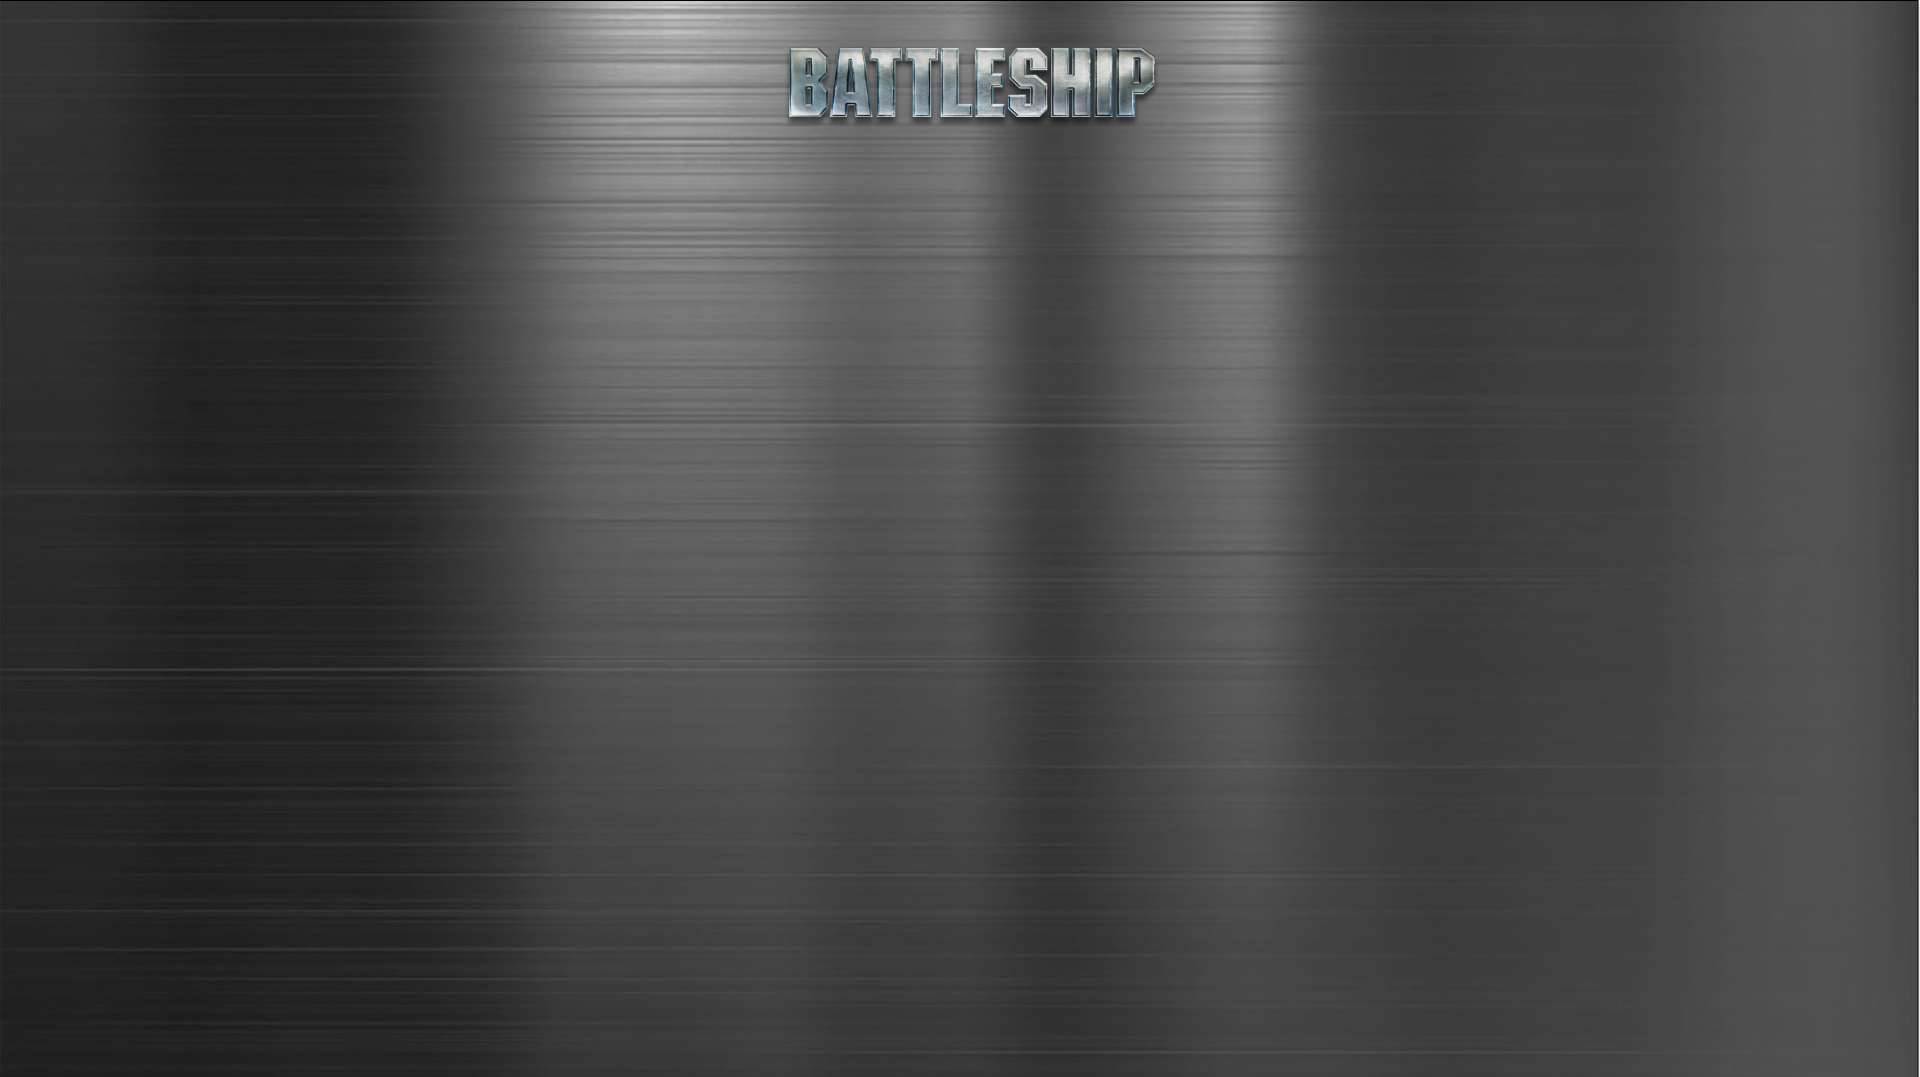
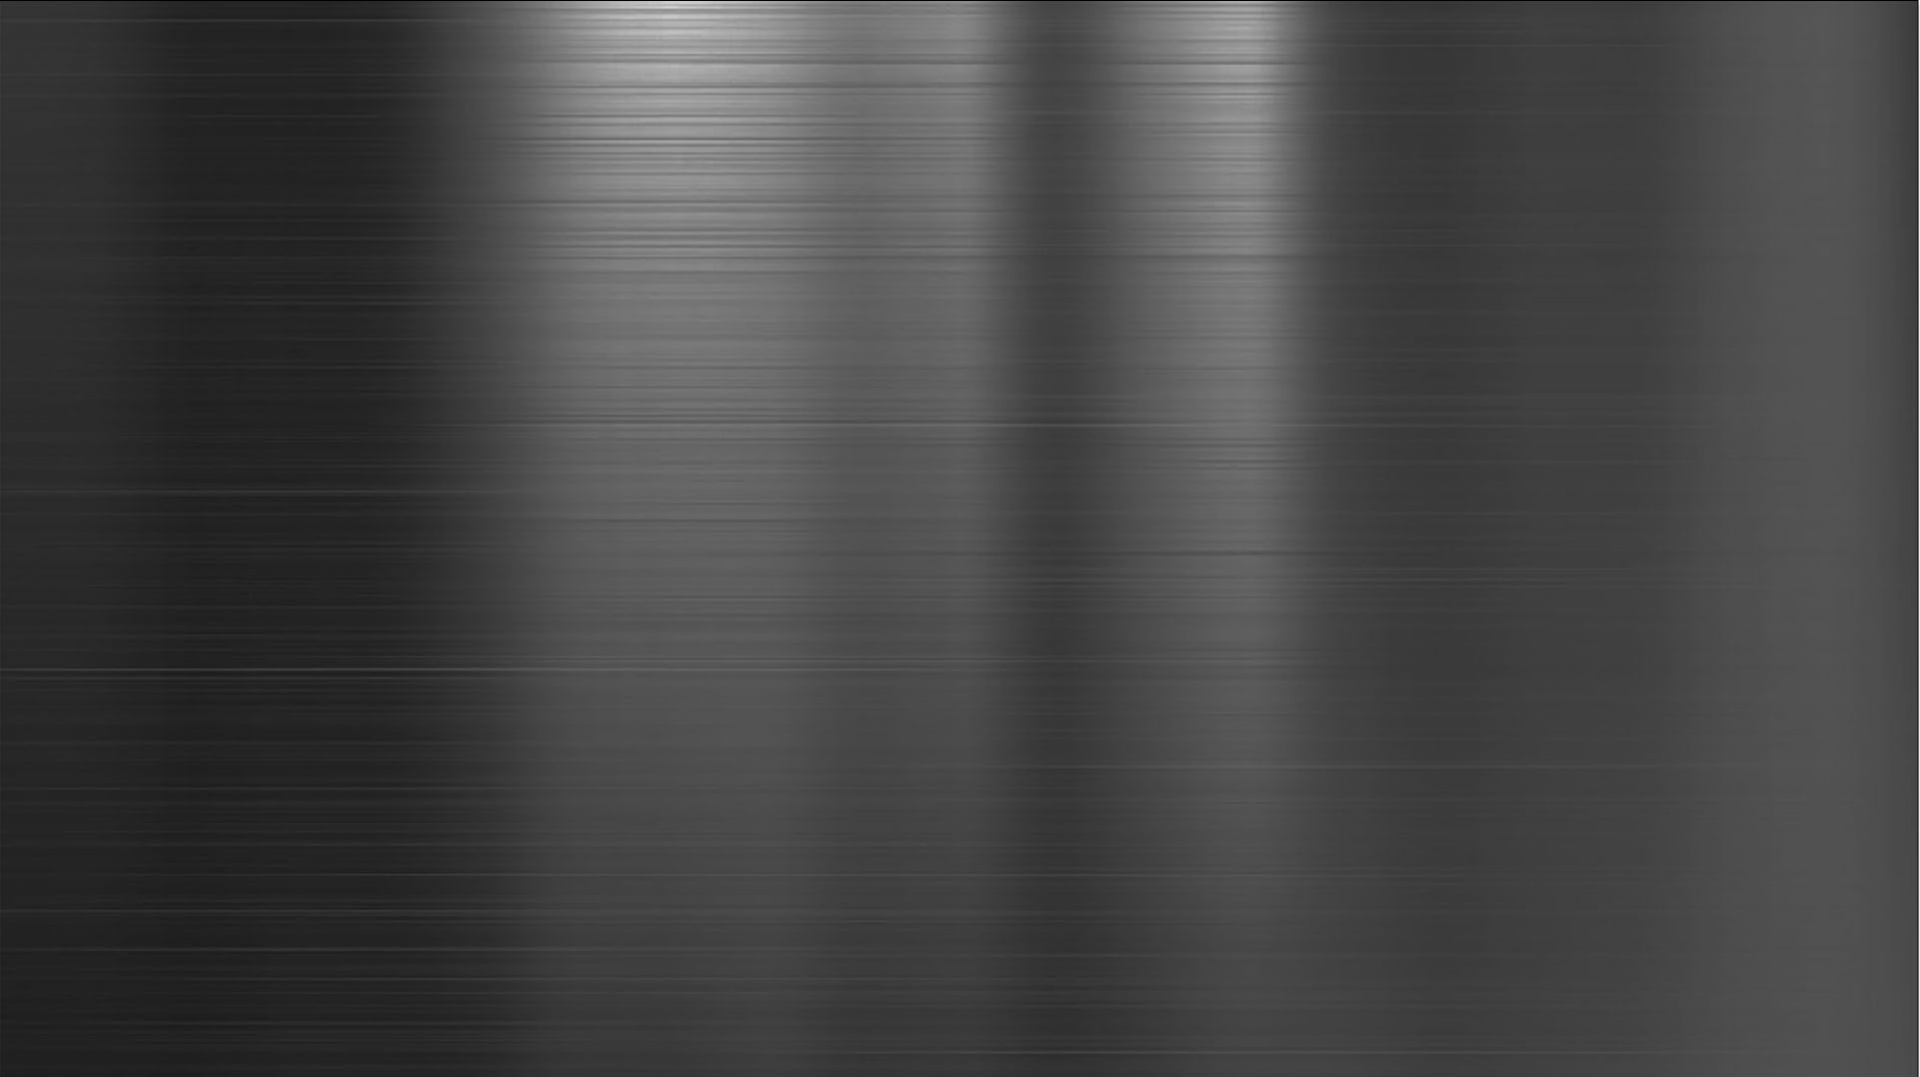
responsivo

Changed region(s): [[0.4062, 0.0306, 0.625, 0.1226]]

diff --git a/my-app/src/components/assignment/assignment.js b/my-app/src/components/assignment/assignment.js
@@ -1,13 +1,22 @@
 const React = require('react');
 const ReactDOM = require('react-dom/client');
 const { exec } = require('child_process');
-const { useState } = require('react');
+const { useState, useRef, useEffect } = require('react');
 
 const bgimage = document.getElementById('bgimage');
+const logo = document.getElementById('logo');
+const boxleft = document.getElementById('boxleft');
+const boxright = document.getElementById('boxright');
 const saveimage = document.getElementById('saveimage');
+
 const Assignment = () => {
     const [teamBlue, setTeamBlue] = useState([]);
     const [teamRed, setTeamRed] = useState([]);
+    const [sizeBtnPositions, setSizeBtnPositions] = useState(50);
+    const [paddingTopContent, setPaddingTopContent] = useState(0);
+    const refBoxLeft = useRef(null);
+    const refLogo = useRef(null);
+    const refBtn = useRef(null);
 
     const saveChoice = (team, row, column) => {
         if (team === 1) {
@@ -74,6 +83,33 @@ const Assignment = () => {
         } else alert('Selecciona posiciones de equipos');
     }
 
+    useEffect(() => {
+        const handleResize = () => {
+            const widthLeft = refBoxLeft?.current?.offsetWidth;
+            if (widthLeft) {
+                const size = (widthLeft - 140) / 7;
+                setSizeBtnPositions(size - 2);
+            }
+            const heightLogo = refLogo?.current.offsetHeight;
+            const heightBtn = refBtn?.current.offsetHeight;
+            const heightBoxes = refBoxLeft?.current.offsetHeight;
+            if (heightBoxes && heightLogo && heightBtn) {
+                const heightWindow = window?.innerHeight;
+                if (heightWindow) {
+                    const div = heightWindow - (heightBoxes + heightLogo + heightBtn);
+                    if (div > 0) {
+                        setPaddingTopContent(heightWindow < 800 ? (div / 2) - 40 : (div / 2));
+                    }
+                }
+            }
+
+        };
+
+        window.addEventListener("resize", handleResize);
+        handleResize();
+        return () => window.removeEventListener("resize", handleResize);
+    }, [])
+
     return (
         <div
             style={{
@@ -86,66 +122,121 @@ const Assignment = () => {
                 height: '100vh',
             }}
         >
-            <div className="container">
-                <div className="row">
-                    <div className="col-sm-12">
-                        <img 
-                            onClick={start} 
-                            src={saveimage?.src} 
+            <div
+                style={{
+                    //top: '50%',
+                    //transform: 'translateY(-50%)',
+                    //height: 'calc(100vh - 100px)'
+                }}
+            >
+                <div className="container"
+                    style={{
+                        paddingTop: paddingTopContent
+                    }}
+                >
+                    <div className="row">
+                        <div
+                            className="col-sm-12"
                             style={{
-                                cursor: 'pointer'
+                                textAlign: 'center',
+                                //marginTop: 30,
                             }}
-                        />
-
-                    </div>
-                    <div className="col-sm-6">
-                        <div className="row">
-                            <div className="col-sm-6">
-                                <h1 style={{color: 'blue'}}>Equipo azul</h1>
-                            </div>
-                            <div className="col-sm-6">
-
-                            </div>
+                            ref={refLogo}
+                        >
+                            <img
+                                src={logo?.src}
+                                style={{
+                                    width: '20%',
+                                }}
+                            />
                         </div>
-                        <div className="div-array">
-                            {listLetters.map((i, key) =>
-                                <div key={key}>
-                                    {listNumbers.map((j, k) =>
-                                        <button
-                                            className={`buttons-lists ${isActive(1, `${i}${j}`) ? 'button-active-b' : ''}`}
-                                            key={k}
-                                            onClick={() => saveChoice(1, i, j)}
-                                        >
-                                            {`${i}${j}`}
-                                        </button>
+                        <div className="col-sm-6" style={{ marginTop: -30 }}>
+                            <div
+                                style={{
+                                    backgroundImage: `url(${boxleft?.src})`,
+                                    backgroundPosition: '50% 50%',
+                                    backgroundSize: 'contain',
+                                    backgroundRepeat: 'no-repeat',
+                                    position: 'relative',
+                                    width: '100%',
+                                    //height: 'calc(100vh - 170px)',
+                                }}
+                            >
+
+                                <div className="div-array" ref={refBoxLeft}>
+                                    <label style={{ color: '#1975cb', fontSize: 22, marginBottom: 10 }}>Equipo azul</label>
+                                    {listLetters.map((i, key) =>
+                                        <div key={key}>
+                                            {listNumbers.map((j, k) =>
+                                                <button
+                                                    className={`buttons-lists ${isActive(1, `${i}${j}`) ? 'button-active-b' : ''}`}
+                                                    style={{
+                                                        width: sizeBtnPositions,
+                                                        height: sizeBtnPositions,
+                                                        fontSize: sizeBtnPositions / 3
+                                                    }}
+                                                    key={k}
+                                                    onClick={() => saveChoice(1, i, j)}
+                                                >
+                                                    {`${i}${j}`}
+                                                </button>
+                                            )}
+                                        </div>
                                     )}
                                 </div>
-                            )}
-                        </div>
-                    </div>
-                    <div className="col-sm-6">
-                        <div className="row">
-                            <div className="col-sm-6">
-                                <h1 style={{color: 'red'}}>Equipo rojo</h1>
-                            </div>
-                            <div className="col-sm-6">
-
                             </div>
                         </div>
-                        <div className="div-array">
-                            {listLetters.map((i, key) =>
-                                <div key={key}>
-                                    {listNumbers.map((j, k) =>
-                                        <button
-                                            className={`buttons-lists ${isActive(2, `${i}${j}`) ? 'button-active-r' : ''}`}
-                                            key={k}
-                                            onClick={() => saveChoice(2, i, j)}
-                                        >
-                                            {`${i}${j}`}
-                                        </button>
+                        <div className="col-sm-6" style={{ marginTop: -30 }}>
+                            <div
+                                style={{
+                                    backgroundImage: `url(${boxright?.src})`,
+                                    backgroundPosition: '50% 50%',
+                                    backgroundSize: 'contain',
+                                    backgroundRepeat: 'no-repeat',
+                                    position: 'relative',
+                                    width: '100%',
+                                    //height: 'calc(100vh - 170px)',
+                                }}
+                            >
+                                <div className="div-array">
+                                    <label style={{ color: '#ff0000', fontSize: 22, marginBottom: 10 }}>Equipo rojo</label>
+                                    {listLetters.map((i, key) =>
+                                        <div key={key}>
+                                            {listNumbers.map((j, k) =>
+                                                <button
+                                                    className={`buttons-lists ${isActive(2, `${i}${j}`) ? 'button-active-r' : ''}`}
+                                                    style={{
+                                                        width: sizeBtnPositions,
+                                                        height: sizeBtnPositions,
+                                                        fontSize: sizeBtnPositions / 3
+                                                    }}
+                                                    key={k}
+                                                    onClick={() => saveChoice(2, i, j)}
+                                                >
+                                                    {`${i}${j}`}
+                                                </button>
+                                            )}
+                                        </div>
                                     )}
                                 </div>
-                            )}
+                            </div>
+                        </div>
+                        <div
+                            className="col-sm-12"
+                            style={{
+                                textAlign: 'center',
+                                marginTop: 20
+                            }}
+                            ref={refBtn}
+                        >
+                            <img
+                                onClick={start}
+                                src={saveimage?.src}
+                                style={{
+                                    cursor: 'pointer'
+                                }}
+                            />
+
                         </div>
                     </div>
                 </div>

diff --git a/my-app/src/components/home/home.js b/my-app/src/components/home/home.js
@@ -28,17 +28,21 @@ const Home = () => {
                     position: 'relative',
                     width: '50%',
                     margin: '0 auto',
-                    height: 'calc(100vh - 100px)',
-                    paddingTop: 100
+                    height: '50%',
+                    top: '50%',
+                    transform: 'translateY(-50%)'
+                    //
+                    //height: 'calc(100vh - 100px)',
+                    //paddingTop: 100
                 }}
             >
                 <div
                     style={{
                         position: 'absolute',
-                        width: '20%',
-                        left: '40%',
+                        width: '25%',
+                        left: '37.5%',
                         //margin: '0 auto',
-                        bottom: '0px'
+                        bottom: '-20%'
                     }}
                 >
                     <a href="assignment.html">
@@ -50,7 +54,6 @@ const Home = () => {
                     </a>
                 </div>
             </div>
-
         </div>
     )
 };

diff --git a/my-app/src/pages/assignment.html b/my-app/src/pages/assignment.html
@@ -11,6 +11,9 @@
 <body>
     <div id="assignment"></div>
     <img src="../../public/images/assignment/bg.png" id="bgimage" style="display: none;" />
+    <img src="../../public/images/assignment/logo.png" id="logo" style="display: none;" />
+    <img src="../../public/images/assignment/box_left.png" id="boxleft" style="display: none;" />
+    <img src="../../public/images/assignment/box_right.png" id="boxright" style="display: none;" />
     <img src="../../public/images/assignment/save.png" id="saveimage" style="display: none;" />
     <script src="https://unpkg.com/react@16/umd/react.development.js" crossorigin></script>
     <script src="https://unpkg.com/react-dom@16/umd/react-dom.development.js" crossorigin></script>

diff --git a/my-app/public/css/pages/assignment/style.css b/my-app/public/css/pages/assignment/style.css
@@ -1,12 +1,18 @@
+.div-array{
+  width: 100%;
+  /*margin: 0 auto;*/
+  padding: 70px;
+}
 .buttons-lists {
-  width: 50px;
-  height: 50px;
+  background: #bcb5b5;
+  border: 2px solid #060606;
+  font-weight: 800;
 }
 
 .button-active-b {
-  background: blue;
+  background: #1975cb;
 }
 
 .button-active-r {
-  background: red;
+  background: #ff0000;
 }

diff --git a/my-app/src/components/assignment/functions.js b/my-app/src/components/assignment/functions.js
@@ -4,7 +4,7 @@ const listNumbers = [1, 2, 3, 4, 5, 6, 7];
 const arrayOptions = () => {
     listLetters.map((i) => {
         listNumbers.map((j) => {
-            console.log('(' + i + ',' + j + ')')
+            //console.log('(' + i + ',' + j + ')')
         });
     });
 };

diff --git a/my-app/src/index.js b/my-app/src/index.js
@@ -22,6 +22,7 @@ const createWindow = () => {
   mainWindow = new BrowserWindow({
     width: 1100,
     height: 600,
+    fullscreen: true,
     webPreferences: {
       preload: path.join(__dirname, 'preload.js'),
       nodeIntegration: true,
